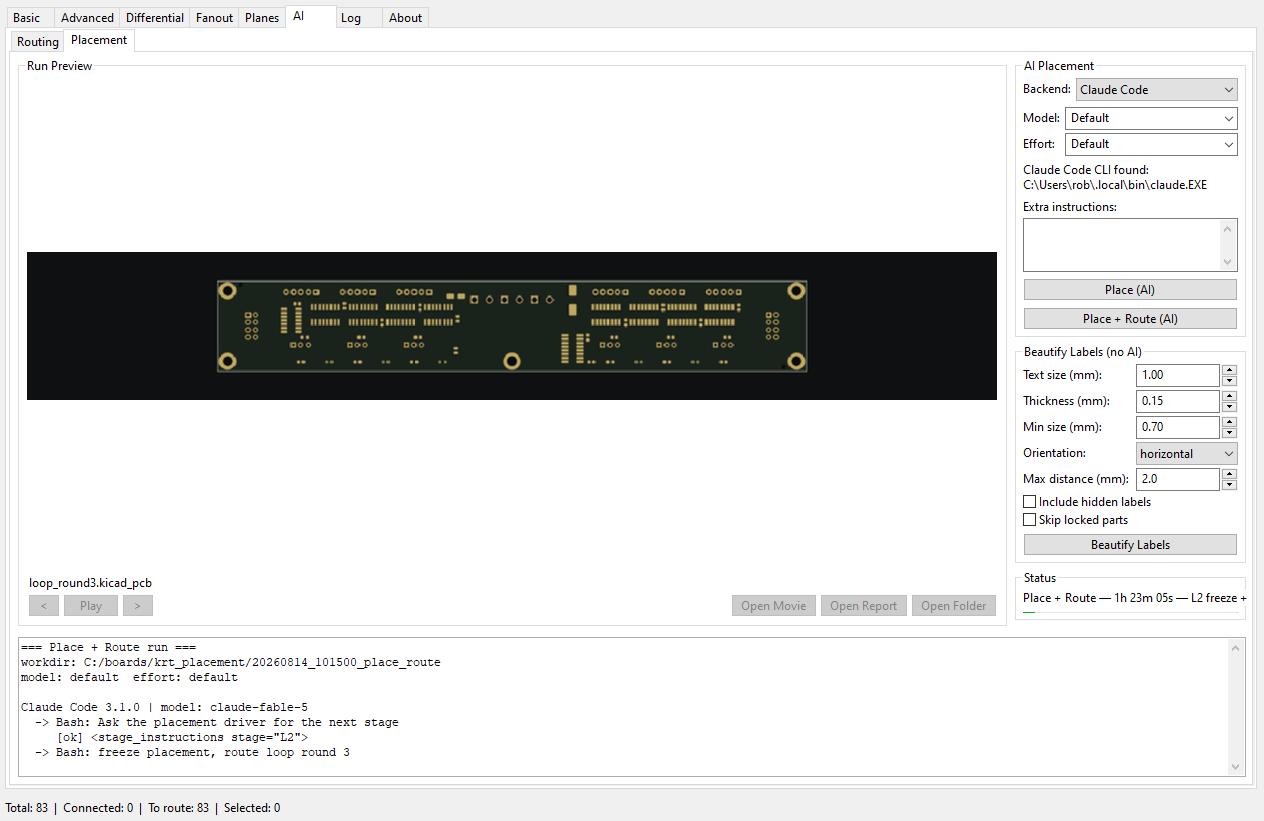
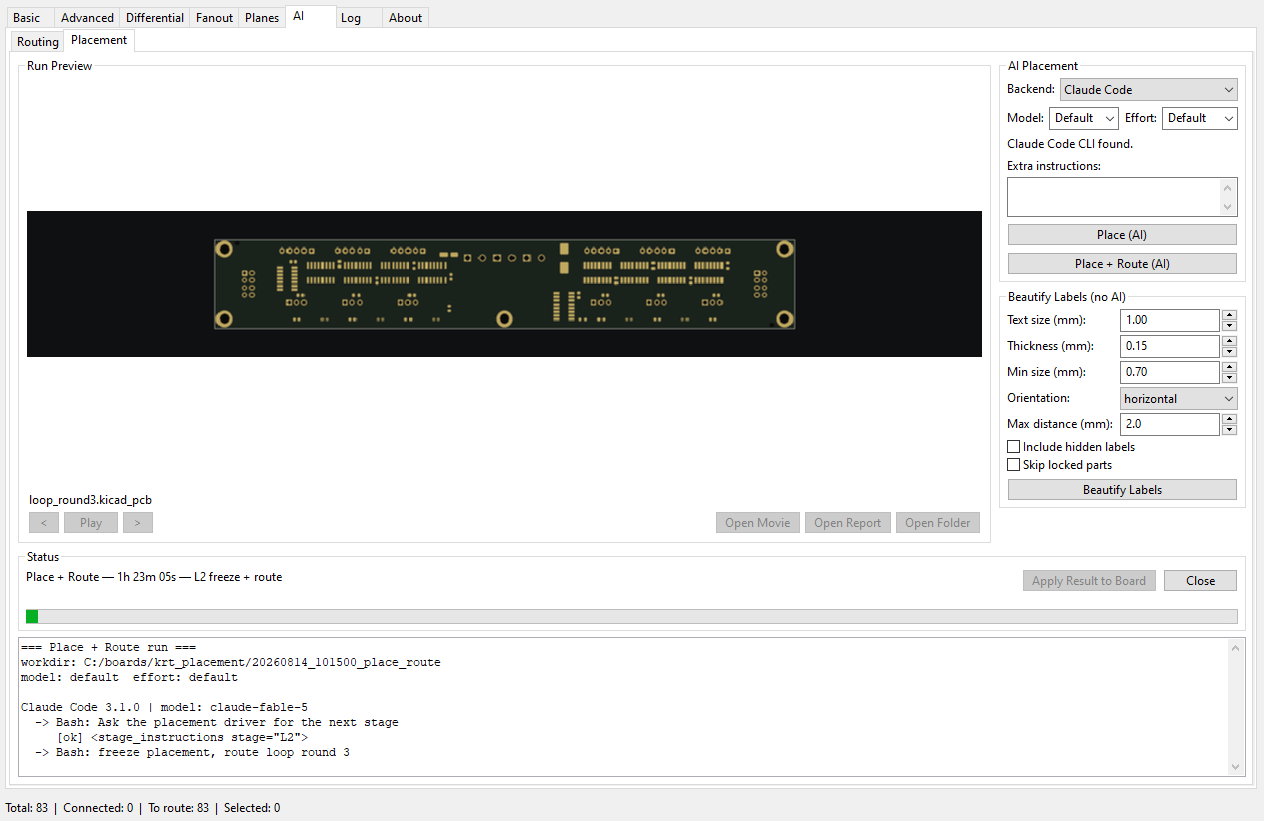
Placement sub-tab: readable full-width status, column fits
The Status box (text + gauge) moves out of the narrow right column into a
full-width row above the transcript -- run statuses (elapsed + stage +
summary) were wrapping and clipping there, and after the Model/Effort rows
the column had also run out of height for its own bottom (the Beautify
button and Apply/Close were squeezed off-screen at the default dialog
size). Apply/Close now sit in the status row (they are run-level controls),
and the column is compacted: Model/Effort share one row, the CLI path moved
into a tooltip behind a one-line "CLI found." label, slimmer instructions
field. Status text reserves two lines and wraps to the tab width only for
unusually long summaries.

Gates re-run: fake-run 29 checks clean, settings roundtrip 185 keys clean.
docs screenshots refreshed.

Claude-Session: https://claude.ai/code/session_014oJarAtMDKL3eVoGxynPMe

Changed region(s): [[0.0, 0.0609, 0.9873, 0.7613]]

diff --git a/kicad_routing_plugin/placement_gui.py b/kicad_routing_plugin/placement_gui.py
@@ -482,22 +482,21 @@ class PlacementTab(wx.Panel):
         self.backend_choice.Bind(wx.EVT_CHOICE, self._on_backend_choice)
         backend_row.Add(self.backend_choice, 1)
         ai_sizer.Add(backend_row, 0, wx.EXPAND | wx.ALL, 3)
-        sel_grid = wx.FlexGridSizer(cols=2, vgap=3, hgap=4)
-        sel_grid.AddGrowableCol(1)
-        sel_grid.Add(wx.StaticText(self, label="Model:"), 0,
-                     wx.ALIGN_CENTER_VERTICAL)
+        sel_row = wx.BoxSizer(wx.HORIZONTAL)
+        sel_row.Add(wx.StaticText(self, label="Model:"), 0,
+                    wx.ALIGN_CENTER_VERTICAL | wx.RIGHT, 4)
         self.model_choice = wx.ComboBox(self, value=DEFAULT_CHOICE, choices=[])
-        sel_grid.Add(self.model_choice, 0, wx.EXPAND)
-        sel_grid.Add(wx.StaticText(self, label="Effort:"), 0,
-                     wx.ALIGN_CENTER_VERTICAL)
+        sel_row.Add(self.model_choice, 1, wx.RIGHT, 6)
+        sel_row.Add(wx.StaticText(self, label="Effort:"), 0,
+                    wx.ALIGN_CENTER_VERTICAL | wx.RIGHT, 4)
         self.effort_choice = wx.ComboBox(self, value=DEFAULT_CHOICE, choices=[])
-        sel_grid.Add(self.effort_choice, 0, wx.EXPAND)
-        ai_sizer.Add(sel_grid, 0, wx.EXPAND | wx.ALL, 3)
+        sel_row.Add(self.effort_choice, 1)
+        ai_sizer.Add(sel_row, 0, wx.EXPAND | wx.ALL, 3)
         self._populate_ai_combos()
         self.cli_status_label = wx.StaticText(self, label="")
         ai_sizer.Add(self.cli_status_label, 0, wx.EXPAND | wx.ALL, 3)
         self.extra_instructions = wx.TextCtrl(
-            self, style=wx.TE_MULTILINE, size=(-1, 54))
+            self, style=wx.TE_MULTILINE, size=(-1, 40))
         self.extra_instructions.SetToolTip(
             "Optional extra instructions passed to the agent (constraints, "
             "focus areas, budget hints).")
@@ -530,15 +529,22 @@ class PlacementTab(wx.Panel):
         labels_sizer.Add(self.action_btn, 0, wx.EXPAND | wx.ALL, 3)
         right.Add(labels_sizer, 0, wx.EXPAND | wx.BOTTOM, 6)
 
+        top.Add(right, 0, wx.EXPAND)
+        sizer.Add(top, 1, wx.EXPAND | wx.ALL, 5)
+
+        # Status spans the FULL dialog width (not the narrow right column):
+        # run statuses (elapsed + stage + summary) are long, and the column
+        # both clipped them and ran out of height for the buttons below.
+        # Apply/Close live here too - they are run-level controls, and moving
+        # them out keeps the right column short enough to never clip.
         status_box = wx.StaticBox(self, label="Status")
         status_sizer = wx.StaticBoxSizer(status_box, wx.VERTICAL)
+        status_row = wx.BoxSizer(wx.HORIZONTAL)
         self.status_text = wx.StaticText(self, label="Ready")
-        status_sizer.Add(self.status_text, 0, wx.EXPAND | wx.ALL, 3)
-        self.progress_bar = wx.Gauge(self, range=100)
-        status_sizer.Add(self.progress_bar, 0, wx.EXPAND | wx.ALL, 3)
-        right.Add(status_sizer, 0, wx.EXPAND | wx.BOTTOM, 6)
-
-        btn_row = wx.BoxSizer(wx.HORIZONTAL)
+        # Two lines reserved so a rare wrap doesn't re-flow the page.
+        self.status_text.SetMinSize(
+            (-1, self.status_text.GetCharHeight() * 2 + 4))
+        status_row.Add(self.status_text, 1, wx.ALIGN_CENTER_VERTICAL | wx.ALL, 3)
         self.apply_btn = wx.Button(self, label="Apply Result to Board")
         self.apply_btn.Enable(False)
         self.apply_btn.SetToolTip(
@@ -546,12 +552,12 @@ class PlacementTab(wx.Panel):
             "(footprint poses; Place + Route also replaces all tracks/vias). "
             "Asks for confirmation first.")
         self.cancel_btn = wx.Button(self, label="Close")
-        btn_row.Add(self.apply_btn, 1, wx.RIGHT, 3)
-        btn_row.Add(self.cancel_btn, 0)
-        right.Add(btn_row, 0, wx.EXPAND)
-
-        top.Add(right, 0, wx.EXPAND)
-        sizer.Add(top, 1, wx.EXPAND | wx.ALL, 5)
+        status_row.Add(self.apply_btn, 0, wx.ALL, 3)
+        status_row.Add(self.cancel_btn, 0, wx.ALL, 3)
+        status_sizer.Add(status_row, 0, wx.EXPAND)
+        self.progress_bar = wx.Gauge(self, range=100)
+        status_sizer.Add(self.progress_bar, 0, wx.EXPAND | wx.ALL, 3)
+        sizer.Add(status_sizer, 0, wx.EXPAND | wx.LEFT | wx.RIGHT, 5)
 
         self.transcript_ctrl = wx.TextCtrl(
             self, style=wx.TE_MULTILINE | wx.TE_READONLY | wx.TE_RICH2)
@@ -570,14 +576,13 @@ class PlacementTab(wx.Panel):
         self.cancel_btn.Bind(wx.EVT_BUTTON, self._on_cancel_or_close)
 
     def set_status(self, text):
-        """Set the status line, wrapped to the right column's width.
+        """Set the status line, wrapped to the tab's current width.
 
-        StaticText does not wrap on its own, and run statuses (elapsed +
-        stage + summary) routinely exceed the ~300 px column - unwrapped
-        they clip at the box edge.
+        StaticText does not wrap on its own; the box is full-width so this
+        only matters for unusually long summaries.
         """
         self.status_text.SetLabel(text)
-        self.status_text.Wrap(290)
+        self.status_text.Wrap(max(500, self.GetClientSize()[0] - 60))
         self.Layout()
 
     def _populate_ai_combos(self):
@@ -645,11 +650,15 @@ class PlacementTab(wx.Panel):
     def _refresh_cli_status(self):
         cli = self.backend.find_cli()
         if cli:
-            self.cli_status_label.SetLabel(f"{self.backend.label} CLI found: {cli}")
+            # One line; the full path rides in the tooltip (column height
+            # is the scarce resource here).
+            self.cli_status_label.SetLabel(f"{self.backend.label} CLI found.")
+            self.cli_status_label.SetToolTip(cli)
         else:
             self.cli_status_label.SetLabel(
                 self.backend.not_found_message() + " Then reopen this dialog.")
-        self.cli_status_label.Wrap(300)
+            self.cli_status_label.SetToolTip("")
+            self.cli_status_label.Wrap(300)
         self.place_btn.Enable(cli is not None)
         self.place_route_btn.Enable(cli is not None)
 
